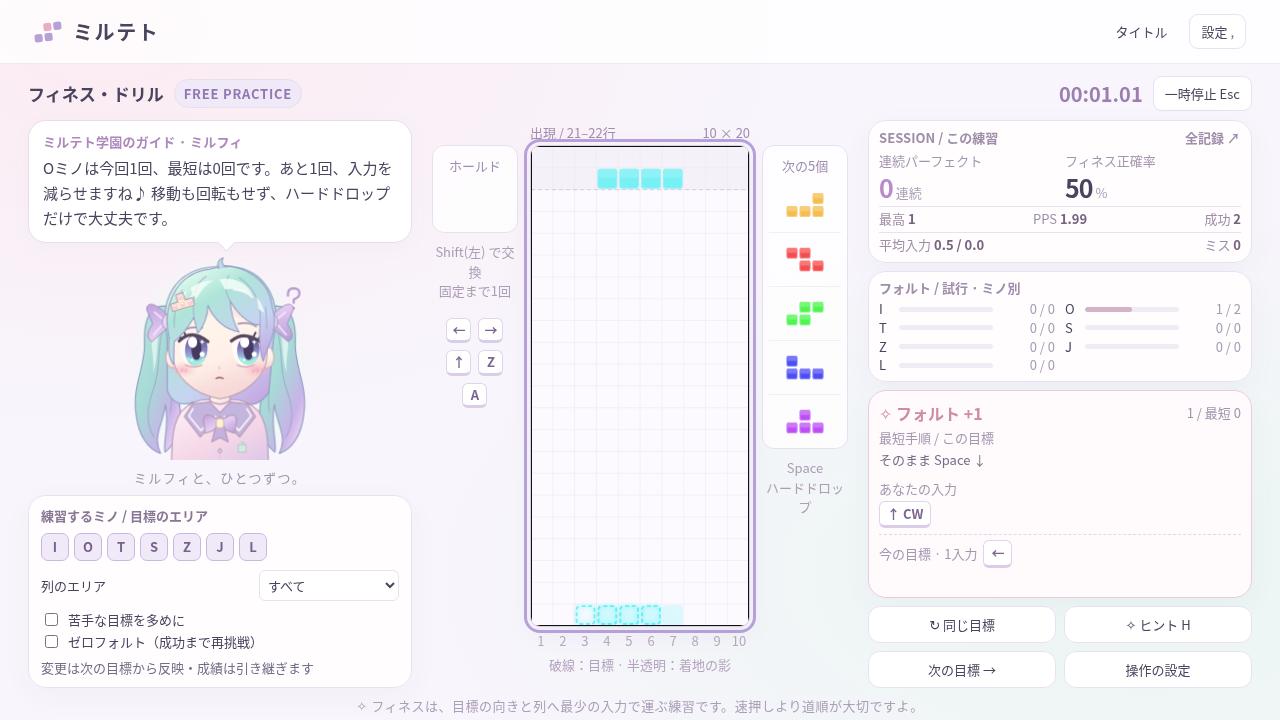
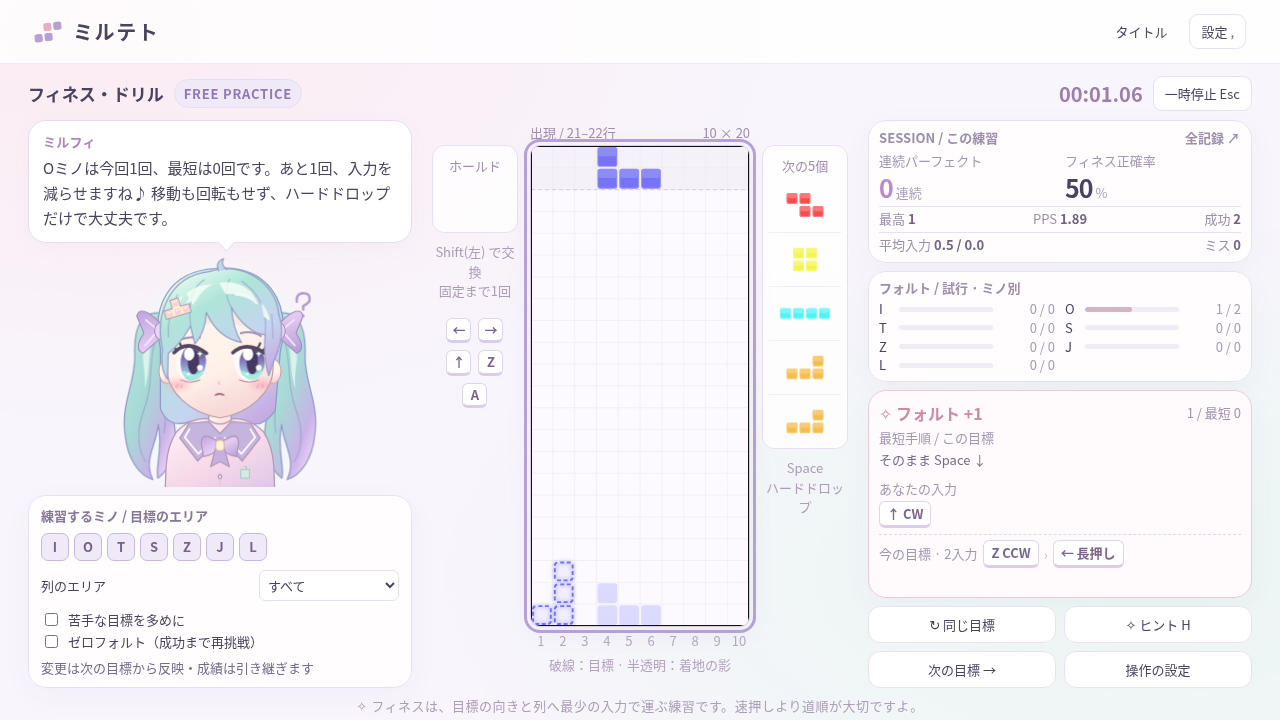
Simplify Mirufi speaker label and drop coach caption (BL-84) — Blanche (Grok)

diff --git a/dist/mirutet.html b/dist/mirutet.html
@@ -582,14 +582,6 @@ kbd.pressed {
   font-size:13px
 }
 
-.coach-label {
-  text-align:center;
-  font-size:13px;
-  color:#a293ae;
-  letter-spacing:.12em;
-  margin-top:-14px
-}
-
 .practice-options {
   padding:13px 15px
 }
@@ -1838,7 +1830,6 @@ body:is([data-screen=menu],[data-screen=tutorial],[data-screen=settings],[data-s
 .coach .speech { min-height:0; flex-shrink:0; }
 .coach .mascot-wrap { min-height:0; width:100%; max-height:320px; }
 .coach .mirufi { max-height:320px; }
-.coach-label { font-size:13px; margin-top:0; }
 .practice-options { padding:10px 12px; }
 .practice-options h3 { font-size:13px; margin-bottom:8px; }
 .piece-filters { gap:5px; }
@@ -3605,7 +3596,7 @@ kbd,.key-help kbd { font-size:13px; }
   function dismissToast() { $('#toast').classList.remove('visible'); toastUntil = 0; }
   function pick(lines) { return lines[Math.floor(Math.random() * lines.length)]; }
   function mascot(expr = 'normal', prefix = 'app') { return M.mascotSVG(expr, { idPrefix: prefix }); }
-  function speech(text, id = '') { return `<div class="speech" ${id ? `id="${id}"` : ''}><span class="speaker">ミルテト学園のガイド · ミルフィ</span><span class="bubble-text">${escape(text)}</span></div>`; }
+  function speech(text, id = '') { return `<div class="speech" ${id ? `id="${id}"` : ''}><span class="speaker">ミルフィ</span><span class="bubble-text">${escape(text)}</span></div>`; }
   function setCoach(text, expr = 'normal') {
     bubble = text; expression = expr;
     const target = $('#coach-speech .bubble-text');
@@ -3642,7 +3633,7 @@ kbd,.key-help kbd { font-size:13px; }
   }
   function playHTML() {
     const sprint = session.sprintLength;
-    return `<main class="play-page"><div class="row spread play-topline"><h1 class="play-title">${sprint ? 'スプリント' : 'フィネス・ドリル'}<span class="tag">${sprint ? sprint + ' PLACEMENTS' : 'FREE PRACTICE'}</span></h1><div class="row"><span id="sprint-time" class="sprint-time">00:00.00</span><button class="small" data-act="pause">一時停止 ${escape(friendly(bindings.pause[0]))}</button></div></div><div class="play-grid"><aside class="coach">${ui.bubbles ? speech(bubble, 'coach-speech') : ''}<div id="coach-mascot" class="mascot-wrap" data-expression="${expression}">${mascot(expression, 'coach')}</div><div class="coach-label">ミルフィと、ひとつずつ。</div><div id="practice-wrap">${practiceHTML()}</div></aside><section class="board-stage"><aside class="side-queue"><div class="queue-box"><div class="queue-title">ホールド</div><div id="hold-preview">${mini(null)}</div></div><p id="hold-note" class="hold-note">${session.handler.holdEnabled ? escape(friendly(bindings.hold[0])) + ' で交換<br>固定まで1回' : '1種類の練習では<br>ホールド無効'}</p><div class="key-help">${['left', 'right', 'cw', 'ccw', 'rotate180'].map(a => `<kbd data-live-key="${a}" title="${ACTION_NAMES[a]}">${escape(friendly(bindings[a][0]))}</kbd>`).join('')}</div></aside><div class="board-column">${boardHTML()}<p class="board-note">破線：目標 · 半透明：着地の影</p></div><aside class="side-queue"><div class="queue-box"><div class="queue-title">次の5個</div><div id="next-preview"></div></div><p class="hold-note">${escape(friendly(bindings.hardDrop[0]))}<br>ハードドロップ</p></aside></section><aside class="right-stack"><section class="panel stats-panel"><div class="row spread panel-label"><span>SESSION / この練習</span><button class="quiet small" style="padding:0" data-act="records-session">全記録 ↗</button></div><div class="stats-main"><div class="stat"><label>連続パーフェクト</label><strong class="accent" id="streak">0</strong><small> 連続</small></div><div class="stat"><label>フィネス正確率</label><strong id="accuracy">0</strong><small> %</small></div></div><div class="stats-strip"><span>最高 <b id="best-streak">0</b></span><span>PPS <b id="pps">0.00</b></span><span>成功 <b id="completed">0${sprint ? '/' + sprint : ''}</b></span></div>${sprint ? '<div class="sprint-progress"><div id="sprint-progress"></div></div>' : ''}<div class="stats-strip"><span>平均入力 <b id="average">0 / 0</b></span><span>ミス <b id="misses">0</b></span></div></section><section class="panel stats-panel"><div class="panel-label">フォルト / 試行 · ミノ別</div><div id="piece-bars" class="piece-bars">${pieceBars(session.stats)}</div></section><section id="result-panel" class="panel result-panel"></section><div class="play-buttons"><button data-act="retry">↻ 同じ目標</button><button data-act="hint">✧ ヒント ${escape(friendly(bindings.hint[0]))}</button><button data-act="skip">次の目標 →</button><button data-act="settings">操作の設定</button></div></aside></div><div class="play-footer" id="play-footer"></div></main>`;
+    return `<main class="play-page"><div class="row spread play-topline"><h1 class="play-title">${sprint ? 'スプリント' : 'フィネス・ドリル'}<span class="tag">${sprint ? sprint + ' PLACEMENTS' : 'FREE PRACTICE'}</span></h1><div class="row"><span id="sprint-time" class="sprint-time">00:00.00</span><button class="small" data-act="pause">一時停止 ${escape(friendly(bindings.pause[0]))}</button></div></div><div class="play-grid"><aside class="coach">${ui.bubbles ? speech(bubble, 'coach-speech') : ''}<div id="coach-mascot" class="mascot-wrap" data-expression="${expression}">${mascot(expression, 'coach')}</div><div id="practice-wrap">${practiceHTML()}</div></aside><section class="board-stage"><aside class="side-queue"><div class="queue-box"><div class="queue-title">ホールド</div><div id="hold-preview">${mini(null)}</div></div><p id="hold-note" class="hold-note">${session.handler.holdEnabled ? escape(friendly(bindings.hold[0])) + ' で交換<br>固定まで1回' : '1種類の練習では<br>ホールド無効'}</p><div class="key-help">${['left', 'right', 'cw', 'ccw', 'rotate180'].map(a => `<kbd data-live-key="${a}" title="${ACTION_NAMES[a]}">${escape(friendly(bindings[a][0]))}</kbd>`).join('')}</div></aside><div class="board-column">${boardHTML()}<p class="board-note">破線：目標 · 半透明：着地の影</p></div><aside class="side-queue"><div class="queue-box"><div class="queue-title">次の5個</div><div id="next-preview"></div></div><p class="hold-note">${escape(friendly(bindings.hardDrop[0]))}<br>ハードドロップ</p></aside></section><aside class="right-stack"><section class="panel stats-panel"><div class="row spread panel-label"><span>SESSION / この練習</span><button class="quiet small" style="padding:0" data-act="records-session">全記録 ↗</button></div><div class="stats-main"><div class="stat"><label>連続パーフェクト</label><strong class="accent" id="streak">0</strong><small> 連続</small></div><div class="stat"><label>フィネス正確率</label><strong id="accuracy">0</strong><small> %</small></div></div><div class="stats-strip"><span>最高 <b id="best-streak">0</b></span><span>PPS <b id="pps">0.00</b></span><span>成功 <b id="completed">0${sprint ? '/' + sprint : ''}</b></span></div>${sprint ? '<div class="sprint-progress"><div id="sprint-progress"></div></div>' : ''}<div class="stats-strip"><span>平均入力 <b id="average">0 / 0</b></span><span>ミス <b id="misses">0</b></span></div></section><section class="panel stats-panel"><div class="panel-label">フォルト / 試行 · ミノ別</div><div id="piece-bars" class="piece-bars">${pieceBars(session.stats)}</div></section><section id="result-panel" class="panel result-panel"></section><div class="play-buttons"><button data-act="retry">↻ 同じ目標</button><button data-act="hint">✧ ヒント ${escape(friendly(bindings.hint[0]))}</button><button data-act="skip">次の目標 →</button><button data-act="settings">操作の設定</button></div></aside></div><div class="play-footer" id="play-footer"></div></main>`;
   }
   function lessonsHTML() {
     return `<main class="page"><div class="page-heading"><div><div class="eyebrow">FINESSE CLASSROOM</div><h2 style="margin-top:6px">レッスン一覧</h2><p>実演を見て、3つの目標で練習。好きなところから復習できます。</p></div><span class="tag mint-tag">${progress.completed.length} / 12 チャレンジ達成</span></div><div class="lesson-list">${lessons.map((lesson, i) => `<button class="lesson-card" data-act="lesson" data-index="${i}"><span class="eyebrow">LESSON ${String(i + 1).padStart(2, '0')} ${progress.completed.includes(i) ? ' · ✔' : ''}</span><b>${escape(lesson.title)}</b><span>${i >= 4 && i <= 10 ? 'ミノ別の最短表・実演・3つの目標' : '実演とミニチャレンジ'}</span></button>`).join('')}</div></main>${footer()}`;

diff --git a/index.html b/index.html
@@ -582,14 +582,6 @@ kbd.pressed {
   font-size:13px
 }
 
-.coach-label {
-  text-align:center;
-  font-size:13px;
-  color:#a293ae;
-  letter-spacing:.12em;
-  margin-top:-14px
-}
-
 .practice-options {
   padding:13px 15px
 }
@@ -1838,7 +1830,6 @@ body:is([data-screen=menu],[data-screen=tutorial],[data-screen=settings],[data-s
 .coach .speech { min-height:0; flex-shrink:0; }
 .coach .mascot-wrap { min-height:0; width:100%; max-height:320px; }
 .coach .mirufi { max-height:320px; }
-.coach-label { font-size:13px; margin-top:0; }
 .practice-options { padding:10px 12px; }
 .practice-options h3 { font-size:13px; margin-bottom:8px; }
 .piece-filters { gap:5px; }
@@ -3605,7 +3596,7 @@ kbd,.key-help kbd { font-size:13px; }
   function dismissToast() { $('#toast').classList.remove('visible'); toastUntil = 0; }
   function pick(lines) { return lines[Math.floor(Math.random() * lines.length)]; }
   function mascot(expr = 'normal', prefix = 'app') { return M.mascotSVG(expr, { idPrefix: prefix }); }
-  function speech(text, id = '') { return `<div class="speech" ${id ? `id="${id}"` : ''}><span class="speaker">ミルテト学園のガイド · ミルフィ</span><span class="bubble-text">${escape(text)}</span></div>`; }
+  function speech(text, id = '') { return `<div class="speech" ${id ? `id="${id}"` : ''}><span class="speaker">ミルフィ</span><span class="bubble-text">${escape(text)}</span></div>`; }
   function setCoach(text, expr = 'normal') {
     bubble = text; expression = expr;
     const target = $('#coach-speech .bubble-text');
@@ -3642,7 +3633,7 @@ kbd,.key-help kbd { font-size:13px; }
   }
   function playHTML() {
     const sprint = session.sprintLength;
-    return `<main class="play-page"><div class="row spread play-topline"><h1 class="play-title">${sprint ? 'スプリント' : 'フィネス・ドリル'}<span class="tag">${sprint ? sprint + ' PLACEMENTS' : 'FREE PRACTICE'}</span></h1><div class="row"><span id="sprint-time" class="sprint-time">00:00.00</span><button class="small" data-act="pause">一時停止 ${escape(friendly(bindings.pause[0]))}</button></div></div><div class="play-grid"><aside class="coach">${ui.bubbles ? speech(bubble, 'coach-speech') : ''}<div id="coach-mascot" class="mascot-wrap" data-expression="${expression}">${mascot(expression, 'coach')}</div><div class="coach-label">ミルフィと、ひとつずつ。</div><div id="practice-wrap">${practiceHTML()}</div></aside><section class="board-stage"><aside class="side-queue"><div class="queue-box"><div class="queue-title">ホールド</div><div id="hold-preview">${mini(null)}</div></div><p id="hold-note" class="hold-note">${session.handler.holdEnabled ? escape(friendly(bindings.hold[0])) + ' で交換<br>固定まで1回' : '1種類の練習では<br>ホールド無効'}</p><div class="key-help">${['left', 'right', 'cw', 'ccw', 'rotate180'].map(a => `<kbd data-live-key="${a}" title="${ACTION_NAMES[a]}">${escape(friendly(bindings[a][0]))}</kbd>`).join('')}</div></aside><div class="board-column">${boardHTML()}<p class="board-note">破線：目標 · 半透明：着地の影</p></div><aside class="side-queue"><div class="queue-box"><div class="queue-title">次の5個</div><div id="next-preview"></div></div><p class="hold-note">${escape(friendly(bindings.hardDrop[0]))}<br>ハードドロップ</p></aside></section><aside class="right-stack"><section class="panel stats-panel"><div class="row spread panel-label"><span>SESSION / この練習</span><button class="quiet small" style="padding:0" data-act="records-session">全記録 ↗</button></div><div class="stats-main"><div class="stat"><label>連続パーフェクト</label><strong class="accent" id="streak">0</strong><small> 連続</small></div><div class="stat"><label>フィネス正確率</label><strong id="accuracy">0</strong><small> %</small></div></div><div class="stats-strip"><span>最高 <b id="best-streak">0</b></span><span>PPS <b id="pps">0.00</b></span><span>成功 <b id="completed">0${sprint ? '/' + sprint : ''}</b></span></div>${sprint ? '<div class="sprint-progress"><div id="sprint-progress"></div></div>' : ''}<div class="stats-strip"><span>平均入力 <b id="average">0 / 0</b></span><span>ミス <b id="misses">0</b></span></div></section><section class="panel stats-panel"><div class="panel-label">フォルト / 試行 · ミノ別</div><div id="piece-bars" class="piece-bars">${pieceBars(session.stats)}</div></section><section id="result-panel" class="panel result-panel"></section><div class="play-buttons"><button data-act="retry">↻ 同じ目標</button><button data-act="hint">✧ ヒント ${escape(friendly(bindings.hint[0]))}</button><button data-act="skip">次の目標 →</button><button data-act="settings">操作の設定</button></div></aside></div><div class="play-footer" id="play-footer"></div></main>`;
+    return `<main class="play-page"><div class="row spread play-topline"><h1 class="play-title">${sprint ? 'スプリント' : 'フィネス・ドリル'}<span class="tag">${sprint ? sprint + ' PLACEMENTS' : 'FREE PRACTICE'}</span></h1><div class="row"><span id="sprint-time" class="sprint-time">00:00.00</span><button class="small" data-act="pause">一時停止 ${escape(friendly(bindings.pause[0]))}</button></div></div><div class="play-grid"><aside class="coach">${ui.bubbles ? speech(bubble, 'coach-speech') : ''}<div id="coach-mascot" class="mascot-wrap" data-expression="${expression}">${mascot(expression, 'coach')}</div><div id="practice-wrap">${practiceHTML()}</div></aside><section class="board-stage"><aside class="side-queue"><div class="queue-box"><div class="queue-title">ホールド</div><div id="hold-preview">${mini(null)}</div></div><p id="hold-note" class="hold-note">${session.handler.holdEnabled ? escape(friendly(bindings.hold[0])) + ' で交換<br>固定まで1回' : '1種類の練習では<br>ホールド無効'}</p><div class="key-help">${['left', 'right', 'cw', 'ccw', 'rotate180'].map(a => `<kbd data-live-key="${a}" title="${ACTION_NAMES[a]}">${escape(friendly(bindings[a][0]))}</kbd>`).join('')}</div></aside><div class="board-column">${boardHTML()}<p class="board-note">破線：目標 · 半透明：着地の影</p></div><aside class="side-queue"><div class="queue-box"><div class="queue-title">次の5個</div><div id="next-preview"></div></div><p class="hold-note">${escape(friendly(bindings.hardDrop[0]))}<br>ハードドロップ</p></aside></section><aside class="right-stack"><section class="panel stats-panel"><div class="row spread panel-label"><span>SESSION / この練習</span><button class="quiet small" style="padding:0" data-act="records-session">全記録 ↗</button></div><div class="stats-main"><div class="stat"><label>連続パーフェクト</label><strong class="accent" id="streak">0</strong><small> 連続</small></div><div class="stat"><label>フィネス正確率</label><strong id="accuracy">0</strong><small> %</small></div></div><div class="stats-strip"><span>最高 <b id="best-streak">0</b></span><span>PPS <b id="pps">0.00</b></span><span>成功 <b id="completed">0${sprint ? '/' + sprint : ''}</b></span></div>${sprint ? '<div class="sprint-progress"><div id="sprint-progress"></div></div>' : ''}<div class="stats-strip"><span>平均入力 <b id="average">0 / 0</b></span><span>ミス <b id="misses">0</b></span></div></section><section class="panel stats-panel"><div class="panel-label">フォルト / 試行 · ミノ別</div><div id="piece-bars" class="piece-bars">${pieceBars(session.stats)}</div></section><section id="result-panel" class="panel result-panel"></section><div class="play-buttons"><button data-act="retry">↻ 同じ目標</button><button data-act="hint">✧ ヒント ${escape(friendly(bindings.hint[0]))}</button><button data-act="skip">次の目標 →</button><button data-act="settings">操作の設定</button></div></aside></div><div class="play-footer" id="play-footer"></div></main>`;
   }
   function lessonsHTML() {
     return `<main class="page"><div class="page-heading"><div><div class="eyebrow">FINESSE CLASSROOM</div><h2 style="margin-top:6px">レッスン一覧</h2><p>実演を見て、3つの目標で練習。好きなところから復習できます。</p></div><span class="tag mint-tag">${progress.completed.length} / 12 チャレンジ達成</span></div><div class="lesson-list">${lessons.map((lesson, i) => `<button class="lesson-card" data-act="lesson" data-index="${i}"><span class="eyebrow">LESSON ${String(i + 1).padStart(2, '0')} ${progress.completed.includes(i) ? ' · ✔' : ''}</span><b>${escape(lesson.title)}</b><span>${i >= 4 && i <= 10 ? 'ミノ別の最短表・実演・3つの目標' : '実演とミニチャレンジ'}</span></button>`).join('')}</div></main>${footer()}`;

diff --git a/src/app.js b/src/app.js
@@ -125,7 +125,7 @@
   function dismissToast() { $('#toast').classList.remove('visible'); toastUntil = 0; }
   function pick(lines) { return lines[Math.floor(Math.random() * lines.length)]; }
   function mascot(expr = 'normal', prefix = 'app') { return M.mascotSVG(expr, { idPrefix: prefix }); }
-  function speech(text, id = '') { return `<div class="speech" ${id ? `id="${id}"` : ''}><span class="speaker">ミルテト学園のガイド · ミルフィ</span><span class="bubble-text">${escape(text)}</span></div>`; }
+  function speech(text, id = '') { return `<div class="speech" ${id ? `id="${id}"` : ''}><span class="speaker">ミルフィ</span><span class="bubble-text">${escape(text)}</span></div>`; }
   function setCoach(text, expr = 'normal') {
     bubble = text; expression = expr;
     const target = $('#coach-speech .bubble-text');
@@ -162,7 +162,7 @@
   }
   function playHTML() {
     const sprint = session.sprintLength;
-    return `<main class="play-page"><div class="row spread play-topline"><h1 class="play-title">${sprint ? 'スプリント' : 'フィネス・ドリル'}<span class="tag">${sprint ? sprint + ' PLACEMENTS' : 'FREE PRACTICE'}</span></h1><div class="row"><span id="sprint-time" class="sprint-time">00:00.00</span><button class="small" data-act="pause">一時停止 ${escape(friendly(bindings.pause[0]))}</button></div></div><div class="play-grid"><aside class="coach">${ui.bubbles ? speech(bubble, 'coach-speech') : ''}<div id="coach-mascot" class="mascot-wrap" data-expression="${expression}">${mascot(expression, 'coach')}</div><div class="coach-label">ミルフィと、ひとつずつ。</div><div id="practice-wrap">${practiceHTML()}</div></aside><section class="board-stage"><aside class="side-queue"><div class="queue-box"><div class="queue-title">ホールド</div><div id="hold-preview">${mini(null)}</div></div><p id="hold-note" class="hold-note">${session.handler.holdEnabled ? escape(friendly(bindings.hold[0])) + ' で交換<br>固定まで1回' : '1種類の練習では<br>ホールド無効'}</p><div class="key-help">${['left', 'right', 'cw', 'ccw', 'rotate180'].map(a => `<kbd data-live-key="${a}" title="${ACTION_NAMES[a]}">${escape(friendly(bindings[a][0]))}</kbd>`).join('')}</div></aside><div class="board-column">${boardHTML()}<p class="board-note">破線：目標 · 半透明：着地の影</p></div><aside class="side-queue"><div class="queue-box"><div class="queue-title">次の5個</div><div id="next-preview"></div></div><p class="hold-note">${escape(friendly(bindings.hardDrop[0]))}<br>ハードドロップ</p></aside></section><aside class="right-stack"><section class="panel stats-panel"><div class="row spread panel-label"><span>SESSION / この練習</span><button class="quiet small" style="padding:0" data-act="records-session">全記録 ↗</button></div><div class="stats-main"><div class="stat"><label>連続パーフェクト</label><strong class="accent" id="streak">0</strong><small> 連続</small></div><div class="stat"><label>フィネス正確率</label><strong id="accuracy">0</strong><small> %</small></div></div><div class="stats-strip"><span>最高 <b id="best-streak">0</b></span><span>PPS <b id="pps">0.00</b></span><span>成功 <b id="completed">0${sprint ? '/' + sprint : ''}</b></span></div>${sprint ? '<div class="sprint-progress"><div id="sprint-progress"></div></div>' : ''}<div class="stats-strip"><span>平均入力 <b id="average">0 / 0</b></span><span>ミス <b id="misses">0</b></span></div></section><section class="panel stats-panel"><div class="panel-label">フォルト / 試行 · ミノ別</div><div id="piece-bars" class="piece-bars">${pieceBars(session.stats)}</div></section><section id="result-panel" class="panel result-panel"></section><div class="play-buttons"><button data-act="retry">↻ 同じ目標</button><button data-act="hint">✧ ヒント ${escape(friendly(bindings.hint[0]))}</button><button data-act="skip">次の目標 →</button><button data-act="settings">操作の設定</button></div></aside></div><div class="play-footer" id="play-footer"></div></main>`;
+    return `<main class="play-page"><div class="row spread play-topline"><h1 class="play-title">${sprint ? 'スプリント' : 'フィネス・ドリル'}<span class="tag">${sprint ? sprint + ' PLACEMENTS' : 'FREE PRACTICE'}</span></h1><div class="row"><span id="sprint-time" class="sprint-time">00:00.00</span><button class="small" data-act="pause">一時停止 ${escape(friendly(bindings.pause[0]))}</button></div></div><div class="play-grid"><aside class="coach">${ui.bubbles ? speech(bubble, 'coach-speech') : ''}<div id="coach-mascot" class="mascot-wrap" data-expression="${expression}">${mascot(expression, 'coach')}</div><div id="practice-wrap">${practiceHTML()}</div></aside><section class="board-stage"><aside class="side-queue"><div class="queue-box"><div class="queue-title">ホールド</div><div id="hold-preview">${mini(null)}</div></div><p id="hold-note" class="hold-note">${session.handler.holdEnabled ? escape(friendly(bindings.hold[0])) + ' で交換<br>固定まで1回' : '1種類の練習では<br>ホールド無効'}</p><div class="key-help">${['left', 'right', 'cw', 'ccw', 'rotate180'].map(a => `<kbd data-live-key="${a}" title="${ACTION_NAMES[a]}">${escape(friendly(bindings[a][0]))}</kbd>`).join('')}</div></aside><div class="board-column">${boardHTML()}<p class="board-note">破線：目標 · 半透明：着地の影</p></div><aside class="side-queue"><div class="queue-box"><div class="queue-title">次の5個</div><div id="next-preview"></div></div><p class="hold-note">${escape(friendly(bindings.hardDrop[0]))}<br>ハードドロップ</p></aside></section><aside class="right-stack"><section class="panel stats-panel"><div class="row spread panel-label"><span>SESSION / この練習</span><button class="quiet small" style="padding:0" data-act="records-session">全記録 ↗</button></div><div class="stats-main"><div class="stat"><label>連続パーフェクト</label><strong class="accent" id="streak">0</strong><small> 連続</small></div><div class="stat"><label>フィネス正確率</label><strong id="accuracy">0</strong><small> %</small></div></div><div class="stats-strip"><span>最高 <b id="best-streak">0</b></span><span>PPS <b id="pps">0.00</b></span><span>成功 <b id="completed">0${sprint ? '/' + sprint : ''}</b></span></div>${sprint ? '<div class="sprint-progress"><div id="sprint-progress"></div></div>' : ''}<div class="stats-strip"><span>平均入力 <b id="average">0 / 0</b></span><span>ミス <b id="misses">0</b></span></div></section><section class="panel stats-panel"><div class="panel-label">フォルト / 試行 · ミノ別</div><div id="piece-bars" class="piece-bars">${pieceBars(session.stats)}</div></section><section id="result-panel" class="panel result-panel"></section><div class="play-buttons"><button data-act="retry">↻ 同じ目標</button><button data-act="hint">✧ ヒント ${escape(friendly(bindings.hint[0]))}</button><button data-act="skip">次の目標 →</button><button data-act="settings">操作の設定</button></div></aside></div><div class="play-footer" id="play-footer"></div></main>`;
   }
   function lessonsHTML() {
     return `<main class="page"><div class="page-heading"><div><div class="eyebrow">FINESSE CLASSROOM</div><h2 style="margin-top:6px">レッスン一覧</h2><p>実演を見て、3つの目標で練習。好きなところから復習できます。</p></div><span class="tag mint-tag">${progress.completed.length} / 12 チャレンジ達成</span></div><div class="lesson-list">${lessons.map((lesson, i) => `<button class="lesson-card" data-act="lesson" data-index="${i}"><span class="eyebrow">LESSON ${String(i + 1).padStart(2, '0')} ${progress.completed.includes(i) ? ' · ✔' : ''}</span><b>${escape(lesson.title)}</b><span>${i >= 4 && i <= 10 ? 'ミノ別の最短表・実演・3つの目標' : '実演とミニチャレンジ'}</span></button>`).join('')}</div></main>${footer()}`;

diff --git a/src/style.css b/src/style.css
@@ -539,14 +539,6 @@ kbd.pressed {
   font-size:13px
 }
 
-.coach-label {
-  text-align:center;
-  font-size:13px;
-  color:#a293ae;
-  letter-spacing:.12em;
-  margin-top:-14px
-}
-
 .practice-options {
   padding:13px 15px
 }
@@ -1795,7 +1787,6 @@ body:is([data-screen=menu],[data-screen=tutorial],[data-screen=settings],[data-s
 .coach .speech { min-height:0; flex-shrink:0; }
 .coach .mascot-wrap { min-height:0; width:100%; max-height:320px; }
 .coach .mirufi { max-height:320px; }
-.coach-label { font-size:13px; margin-top:0; }
 .practice-options { padding:10px 12px; }
 .practice-options h3 { font-size:13px; margin-bottom:8px; }
 .piece-filters { gap:5px; }
